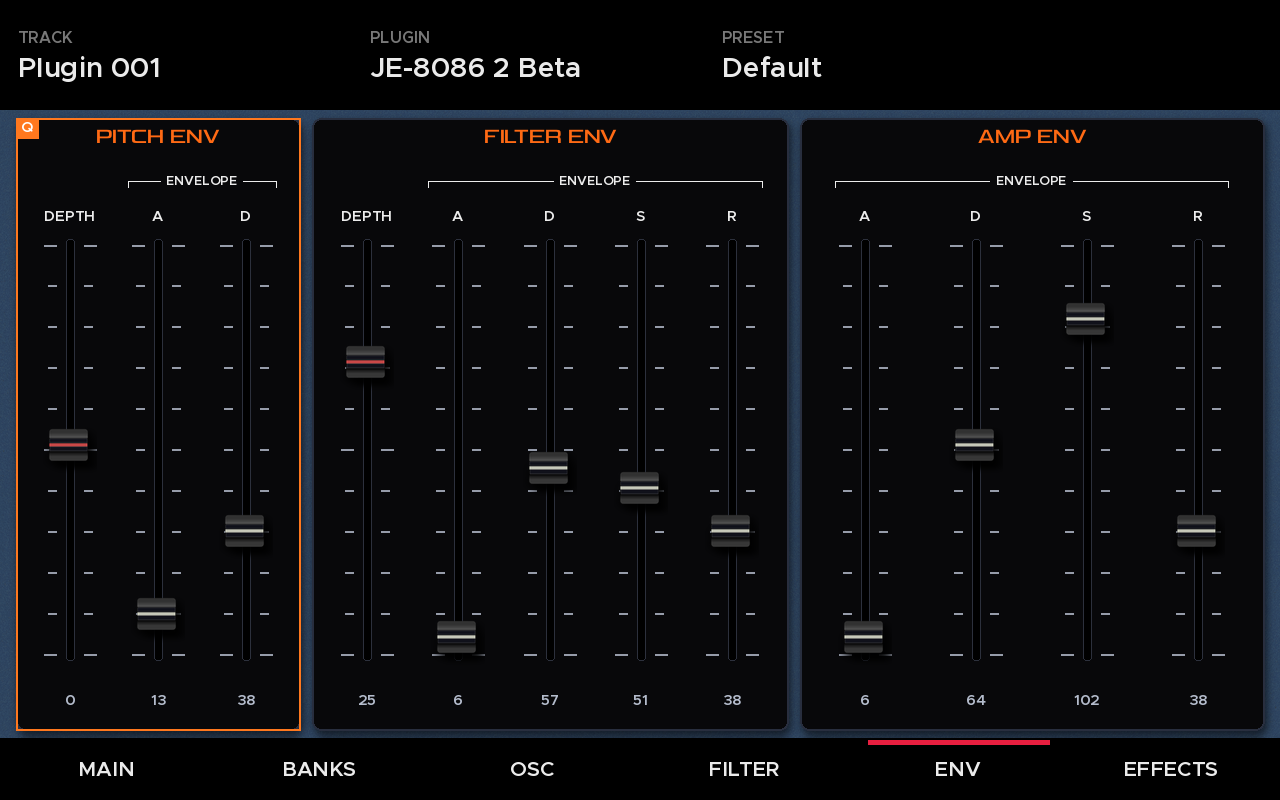
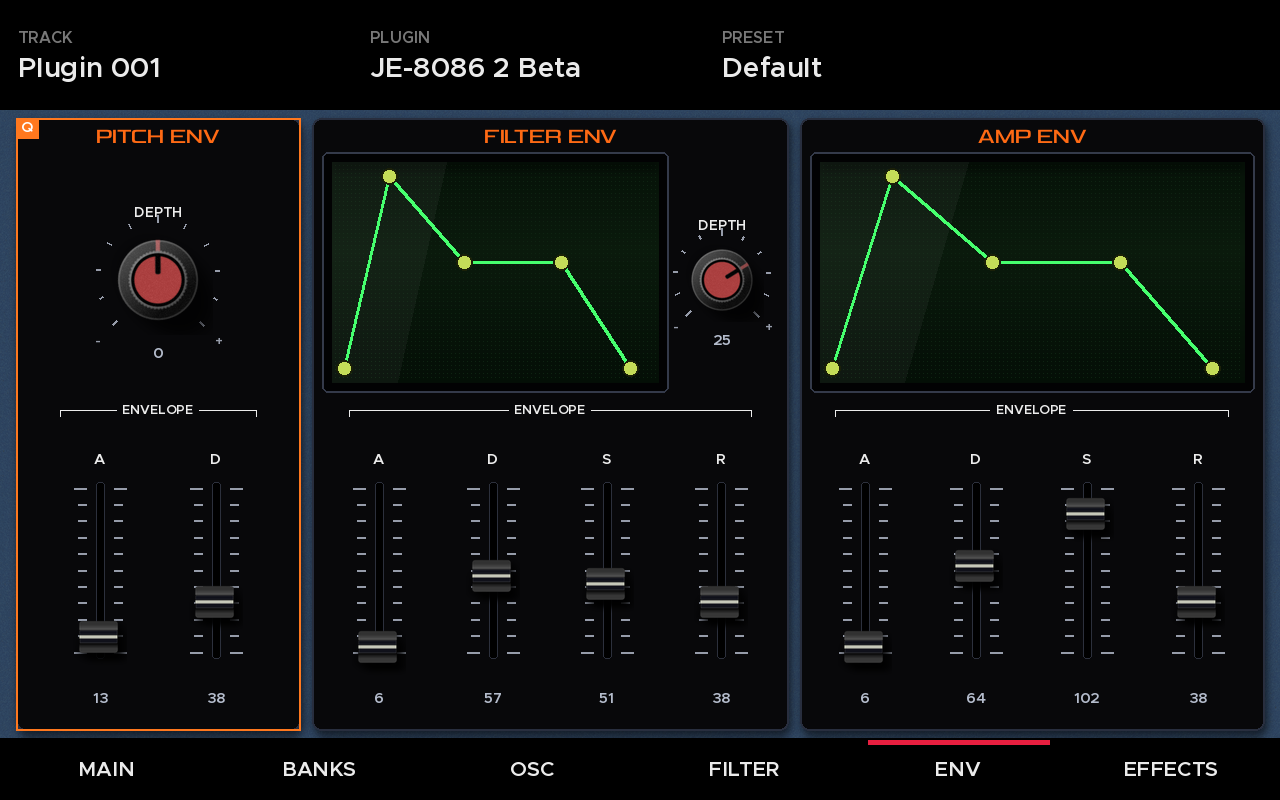
INIT (a plain starting sound, MAIN); ENV page: live envelope graphs over short faders
Claude-Session: https://claude.ai/code/session_01JtHXuWeDq5KzwBjxtMdUGq

diff --git a/tools/skin_pages.py b/tools/skin_pages.py
@@ -313,8 +313,9 @@ def main_page():
     fav_keys(p, 1048, 40)
     p.momentary("all_notes_off", 1048, 112, 96, 44, "PANIC", size=15, red=True)
     p.momentary("init_patch", 1160, 112, 96, 44, "RELOAD", size=15)
-    p.legend(1110, 182, "GAIN %", 13, art.INK_DIM)
-    p.value("gain", 1150, 174, 100, 24, just="left verticallyCentred", colour="ffb4bccc", size=17.0, sample="100")
+    p.momentary("init_sound", 1048, 168, 96, 44, "INIT", size=15)
+    p.legend(1208, 168, "GAIN %", 13, art.INK_DIM)
+    p.value("gain", 1160, 186, 96, 24, colour="ffb4bccc", size=17.0, sample="100")
     # quick edit: filter and oscillator knobs, amp envelope faders, effects
     knob_block(p, 16, 240, 512, 420, "FILTER", [("cutoff", "CUTOFF", .6), ("resonance", "RESONANCE", .2),
                                                 ("filter_env_depth", "ENV DEPTH", .7), ("key_follow", "KEY FOLLOW", .5)], red=("cutoff",))
@@ -441,25 +442,42 @@ def filter_page():
 
 
 def env_page():
-    """ENVELOPES: the pitch, filter and amp envelopes as long faders, as on the panel's bottom row."""
+    """ENVELOPES: a live graph over each ADSR (drag its handles, as on JV-880 2.0), short faders under it as on the panel's bottom
+    row; the pitch envelope (depth, A, D) as a big DEPTH knob over two faders."""
     p = Page("ENVELOPES", "ENV", 4)
-    Y0, Y1 = Y(196), Y(560)
-    blocks = [(16, 300, "PITCH ENV", [("pitch_env_depth", "DEPTH", .5), ("pitch_env_attack", "A", .1), ("pitch_env_decay", "D", .3)]),
-              (312, 788, "FILTER ENV", [("filter_env_depth", "DEPTH", .7), ("filter_attack", "A", .05), ("filter_decay", "D", .45),
-                                        ("filter_sustain", "S", .4), ("filter_release", "R", .3)]),
-              (800, 1264, "AMP ENV", [("amp_attack", "A", .05), ("amp_decay", "D", .5), ("amp_sustain", "S", .8), ("amp_release", "R", .3)])]
-    for x0, x1, title, ctl in blocks:
-        p.section(x0, Y(92), x1, Y(620), title, q=True)
+    GY0, GY1 = 52, 272                      # graph windows
+    FY0, FY1 = 372, 548                     # faders
+    # PITCH ENV
+    p.section(16, 8, 300, 620, "PITCH ENV", q=True)
+    p.knob("pitch_env_depth", 158, 170, "DEPTH", .5, red=True, D=110)
+    art.bracket(p.d, 60, 256, 300, "ENVELOPE")
+    for i, (k, nm, sm) in enumerate([("pitch_env_attack", "A", .1), ("pitch_env_decay", "D", .3)]):
+        p.fader(k, 100 + i * 116, FY0, FY1, nm, sm)
+    p.qlink_group((16, 8, 300, 620), ["pitch_env_depth", "pitch_env_attack", "pitch_env_decay"])
+    blocks = [(312, 788, "FILTER ENV", "filter", [("filter_attack", "A", .05), ("filter_decay", "D", .45), ("filter_sustain", "S", .4),
+                                                  ("filter_release", "R", .3)]),
+              (800, 1264, "AMP ENV", "amp", [("amp_attack", "A", .05), ("amp_decay", "D", .5), ("amp_sustain", "S", .8), ("amp_release", "R", .3)])]
+    for x0, x1, title, kind, ctl in blocks:
+        p.section(x0, 8, x1, 620, title, q=True)
+        gx1 = x1 - 20
+        if kind == "filter":            # DEPTH beside the graph
+            gx1 = x1 - 130
+            p.knob("filter_env_depth", x1 - 66, 170, "DEPTH", .7, red=True, D=84)
+        p.lcd(x0 + 20, GY0, gx1, GY1)
+        keys = [c[0] for c in ctl]
+        name = kind + " env"
+        p.kids.append(tui.entry(name, "Envelope", tui.envelope([("attackHandle", tui.P(keys[0])), ("decayHandle", tui.P(keys[1])),
+                                                                ("sustainHandle", tui.P(keys[2])), ("releaseHandle", tui.P(keys[3]))],
+                                                               name, line=LCD_TXT, accent="ff1a5a24"),
+                                "%d %d %d %d" % (x0 + 32, GY0 + 14, gx1 - x0 - 44, GY1 - GY0 - 28), focus="Yes"))
+        p.env_samples[name] = [(0, 0), (.15, 1), (.4, .55), (.72, .55), (.95, 0)]
         n = len(ctl)
         step = (x1 - x0 - 20) / n
         xs = [int(x0 + 10 + step * (i + 0.5)) for i in range(n)]
-        adsr = [i for i, c in enumerate(ctl) if c[1] in "ADSR" and len(c[1]) == 1]
-        if adsr:
-            art.bracket(p.d, xs[adsr[0]] - 30, xs[adsr[-1]] + 30, Y(146), "ENVELOPE")
-        for i, (k, nm, s) in enumerate(ctl):
-            p.fader(k, xs[i], Y0, Y1, nm, s, red=nm == "DEPTH")
-        keys = [c[0] for c in ctl]
-        p.qlink_group((x0, Y(92), x1, Y(620)), keys[-4:] if len(keys) > 4 else keys)
+        art.bracket(p.d, xs[0] - 30, xs[-1] + 30, 300, "ENVELOPE")
+        for i, (k, nm, sm) in enumerate(ctl):
+            p.fader(k, xs[i], FY0, FY1, nm, sm)
+        p.qlink_group((x0, 8, x1, 620), keys)
     return p
 
 

diff --git a/src/dsp/je8086_engine.cpp b/src/dsp/je8086_engine.cpp
@@ -834,6 +834,7 @@ void restore_state(Inst *in, const char *s) {
     select_sound(in, in->bank, in->preset);
 }
 
+void init_sound(Inst *in);
 void eng_set(void *p, const char *key, const char *val) {
     Inst *in = (Inst *)p;
     if (!in || !key || !val) return;
@@ -892,6 +893,7 @@ void eng_set(void *p, const char *key, const char *val) {
         }
         return;
     }
+    if (!strcmp(key, "init_sound")) { if (press) init_sound(in); return; }
     if (!strcmp(key, "init_patch")) { if (press) select_sound(in, in->bank, in->preset); return; }      // reload the stored preset
     if (!strcmp(key, "gain")) { in->gain = clampi(atoi(val), 10, 400); return; }
     if (!strcmp(key, "edit_part")) {
@@ -911,6 +913,27 @@ void eng_set(void *p, const char *key, const char *val) {
         v += q->vmin;
     }
     write_param(in, q, clampi(v, q->vmin, q->vmax));
+}
+
+/* INIT: a plain starting sound on both parts (the panel's own part setting is kept): one saw, LPF -24 dB fully open, an organ amp
+ * envelope, every modulation depth, CONTROL and VELOCITY assign at 0, effects off. Key mode and the rest of the performance stay. */
+void init_sound(Inst *in) {
+    static const struct { const char *key; int v; } over[] = {
+        {"osc1_waveform", 5}, {"osc2_waveform", 1}, {"osc_balance", -64}, {"osc_shift", 2}, {"lfo1_rate", 64}, {"lfo2_rate", 64},
+        {"filter_type", 2}, {"cutoff_slope", 1}, {"cutoff", 127}, {"filter_sustain", 127}, {"amp_level", 100}, {"amp_sustain", 127},
+        {"amp_release", 8}, {"bend_up", 2}, {"bend_down", -2}, {"chorus_type", 0}, {"delay_type", 0}};
+    const int old = in->part.exchange(2);
+    for (int i = 0; i < JP_PARAM_COUNT; i++) {
+        const jp_param_t *q = &jp_params[i];
+        if (q->area != JP_AREA_PATCH) continue;
+        int v = clampi(0, q->vmin, q->vmax);
+        for (const auto &o : over) if (!strcmp(o.key, q->key)) v = o.v;
+        write_param(in, q, clampi(v, q->vmin, q->vmax));
+    }
+    in->part = old;
+    { std::lock_guard<std::mutex> l(in->sm); in->cur_name = "INIT"; }
+    in->load_gen++;                       // not a stored favourite any more
+    in->bump();
 }
 
 int put(char *buf, int n, const char *fmt, ...) {

diff --git a/tests/host_test.cpp b/tests/host_test.cpp
@@ -120,7 +120,7 @@ int main(int argc, char** argv)
     a->dispatcher(a, effGetEffectName, 0, 0, name, 0);
     CHECK(a->uniqueID == (VstInt32)0x4a453836, "uid JE86 (%08x)", (unsigned)a->uniqueID);
     CHECK(!std::strcmp(name, JE_EXPECT_NAME), "name \"%s\"", name);
-    CHECK(a->numParams == kNumParams && kNumParams == 305, "305 params: 0.1.1's 260 + RANDOM + the naming keyboard (%d)", a->numParams);
+    CHECK(a->numParams == kNumParams && kNumParams == 306, "306 params: 0.1.1's 260 + RANDOM + the naming keyboard + INIT (%d)", a->numParams);
     CHECK(a->numPrograms == 64, "64 programs = the favourite slots (%d)", a->numPrograms);
     {
         int bad = 0, i = 0;
@@ -252,6 +252,15 @@ int main(int argc, char** argv)
         key(a, "kb_cancel");
         settle(a, 60);
         CHECK(je_dbg_kb_open(a) == 0 && eng(a, "fav_text") == fav0, "CANCEL closes without storing (%s)", eng(a, "fav_text").c_str());
+    }
+
+    std::printf("== INIT\n");
+    {
+        a->setParameter(a, CUT, norm(CUT, 20)); settle(a, 200);
+        tap(a, idx("init_sound"), 300); je_dbg_tick(a);
+        CHECK(engi(a, "cutoff") == 127 && engi(a, "osc1_waveform") == 5 && engi(a, "amp_sustain") == 127 && std::lround(plainOf(a, CUT)) == 127,
+              "INIT: a plain saw, filter open (cutoff %d, osc1 wave %d, amp sustain %d, host cutoff %.0f)", engi(a, "cutoff"),
+              engi(a, "osc1_waveform"), engi(a, "amp_sustain"), plainOf(a, CUT));
     }
 
     std::printf("== RANDOM\n");

diff --git a/src/params_gen.h b/src/params_gen.h
@@ -351,8 +351,9 @@ static const PSpec g_pspecs[] = {
     {"kb_shift", "Key Shift", 0.0f, 1.0f, 0.0f, 4609, nullptr, 0, -1, 0.0f},
     {"kb_cancel", "Key Cancel", 0.0f, 1.0f, 0.0f, 4609, nullptr, 0, -1, 0.0f},
     {"kb_save", "Key Save", 0.0f, 1.0f, 0.0f, 4609, nullptr, 0, -1, 0.0f},
+    {"init_sound", "INIT", 0.0f, 1.0f, 0.0f, 513, nullptr, 0, -1, 0.0f},
 };
-static const int kNumParams = 305;
+static const int kNumParams = 306;
 static const int kNumEngineParams = 234;   // 0 .. this - 1 are the engine's keys
 static const int kUiParam = 234;            // ui_open: 0 closed, k + 1 = pick-list of g_popups[k]
 static const int kNumPopups = 26;

diff --git a/tools/make_tui.py b/tools/make_tui.py
@@ -217,7 +217,7 @@ def render_preview(page, tab_names, active, qlink_group=0, keyboard=False):
             pts = page.env_samples.get(cd["name"])
             if pts:
                 P_ = [(x + px * w, y + (1 - py) * h) for px, py in pts]
-                d.line(P_, fill=(26, 32, 8), width=3)
+                d.line(P_, fill=(70, 255, 110), width=3)
                 for q in P_:
                     d.ellipse([q[0] - 8, q[1] - 8, q[0] + 8, q[1] + 8], outline=(26, 32, 8), width=2, fill=(196, 220, 88))
         elif typ.startswith("lcdfield"):

diff --git a/tools/gen_sdk_params.py b/tools/gen_sdk_params.py
@@ -23,6 +23,7 @@ APPENDED = [                     # (key, name, min, max, default, flags) appende
     ("kb_space", "Key Space", 0, 1, 0, 1 | 4096 | 512), ("kb_bksp", "Key Delete", 0, 1, 0, 1 | 4096 | 512),
     ("kb_shift", "Key Shift", 0, 1, 0, 1 | 4096 | 512), ("kb_cancel", "Key Cancel", 0, 1, 0, 1 | 4096 | 512),
     ("kb_save", "Key Save", 0, 1, 0, 1 | 4096 | 512),
+    ("init_sound", "INIT", 0, 1, 0, 1 | 512),         # kMomentary | kNoAuto: the engine's verb, a plain starting sound (MAIN)
 ]
 RANGE = {}
 
